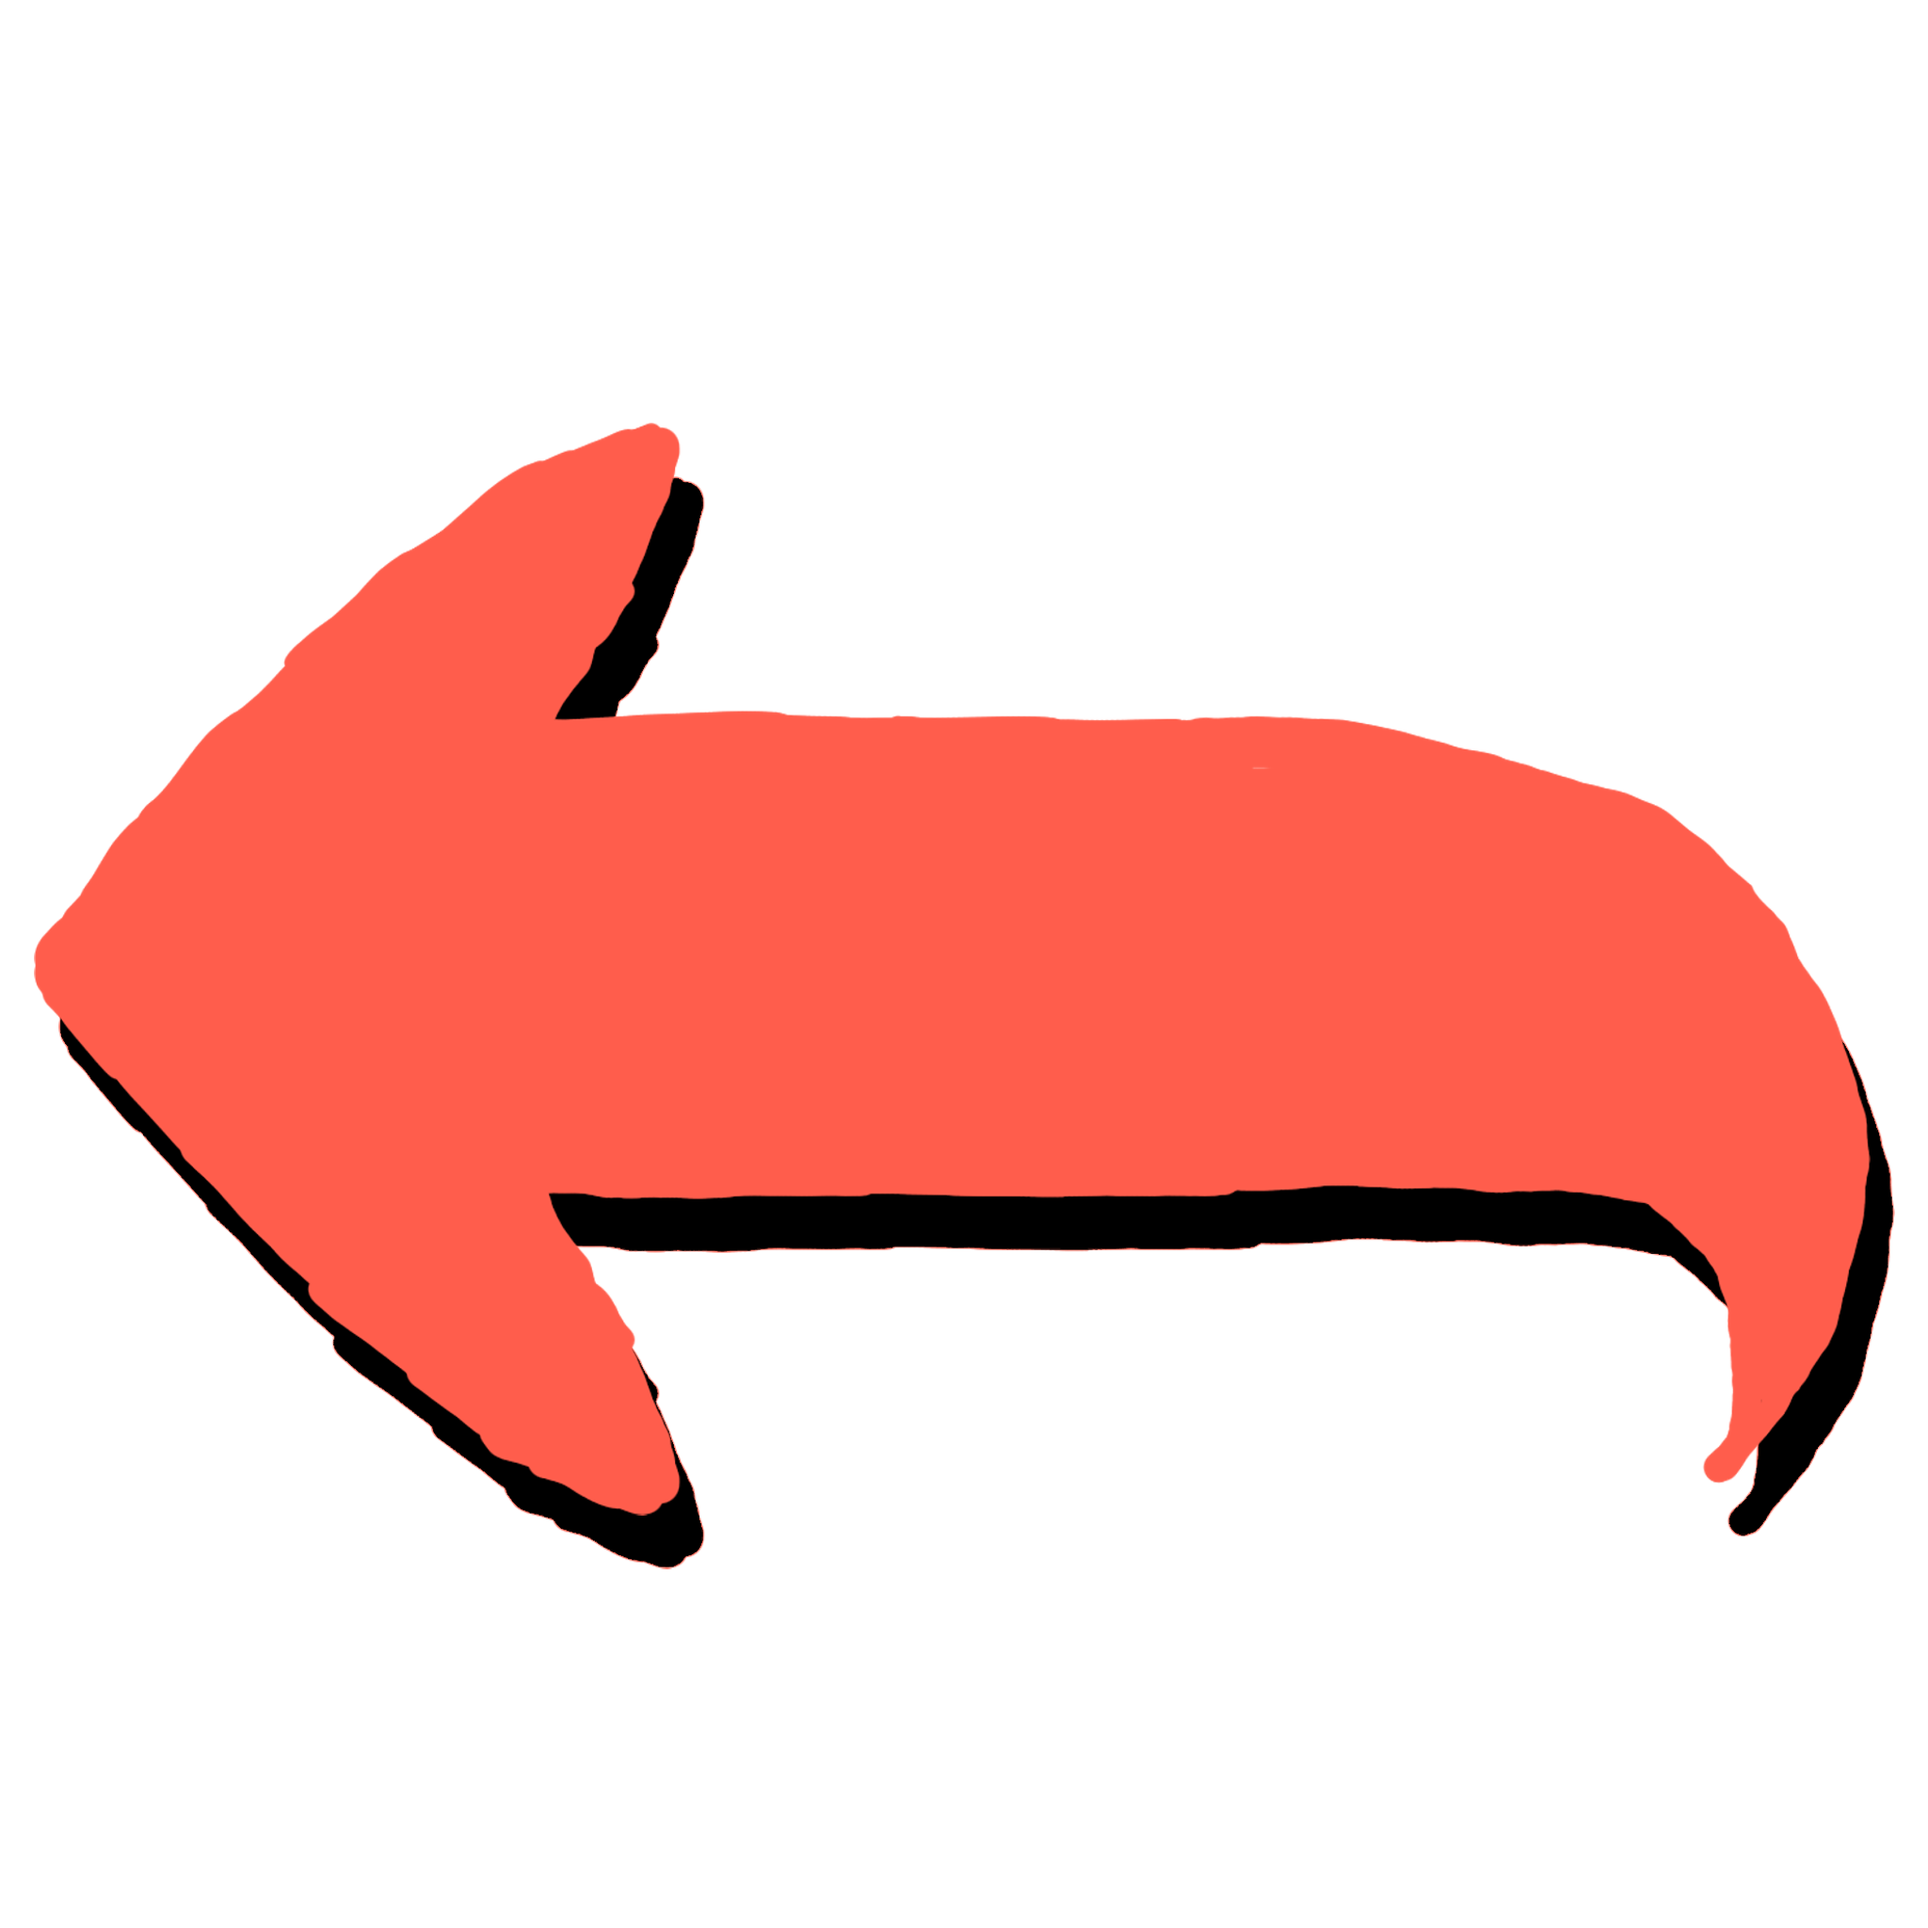
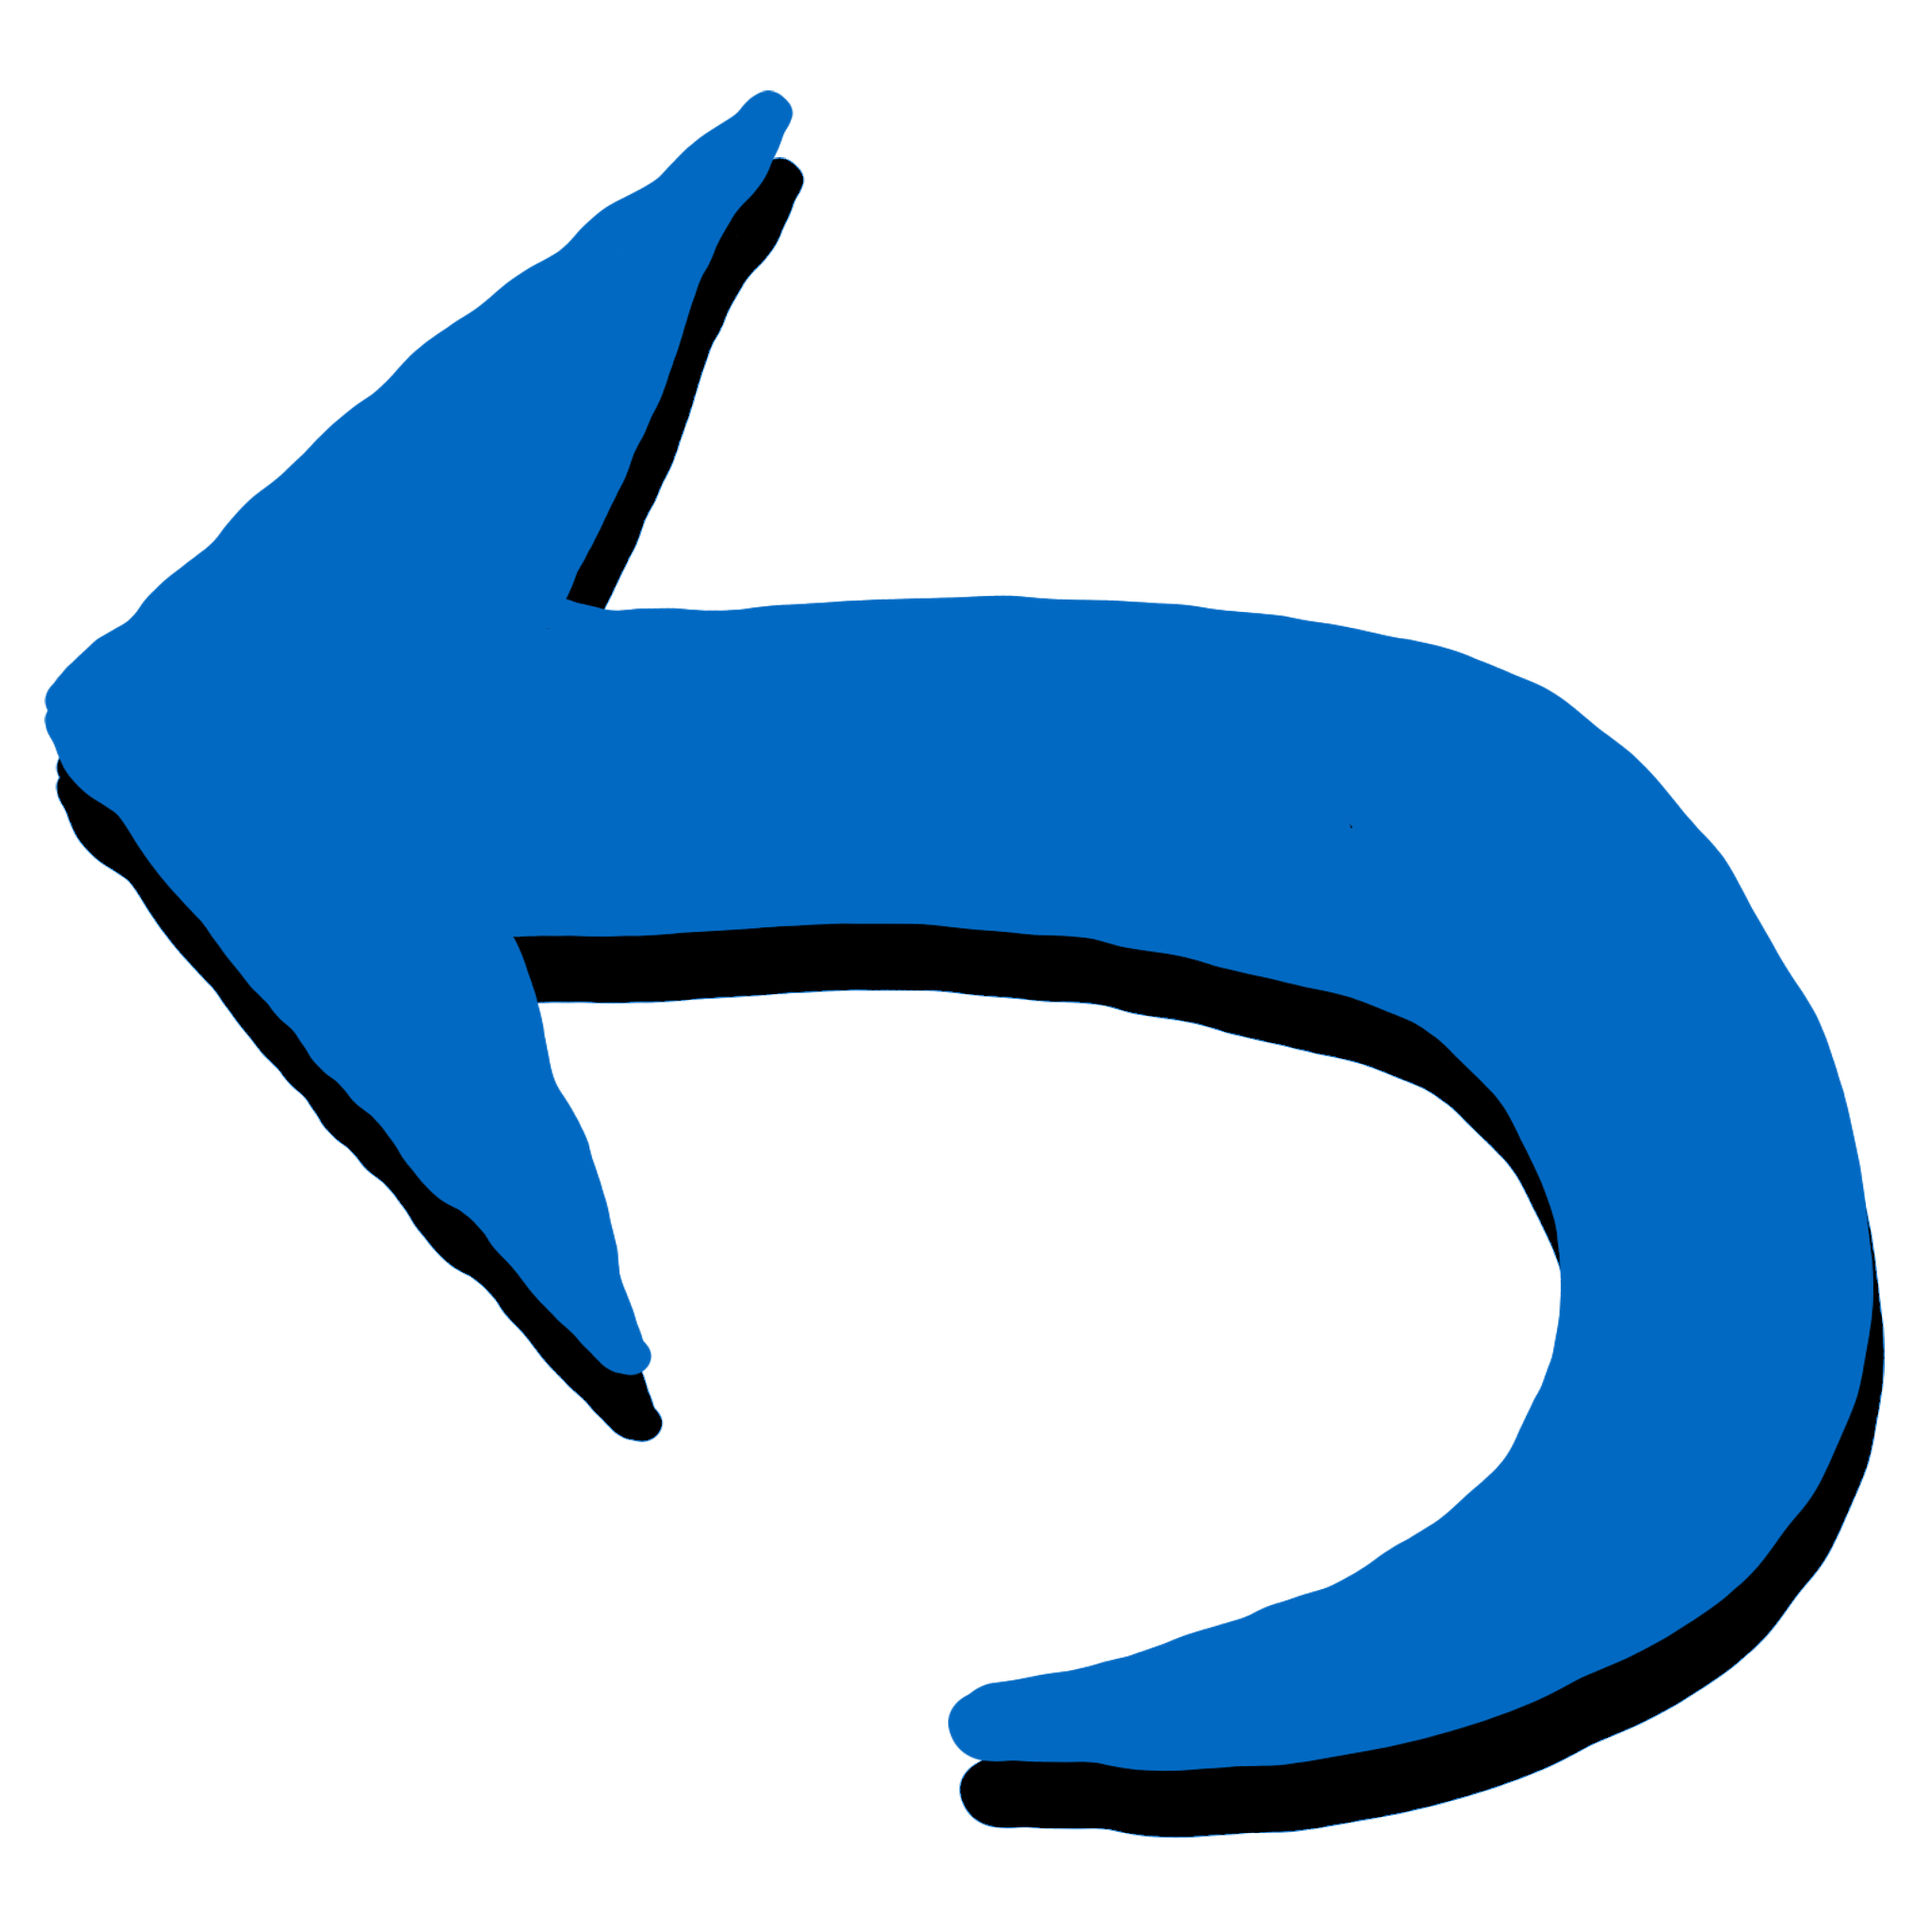
Refonte visuelle des icônes 'Annuler' et 'Rétablir' + améliorations graphique de leurs boutons.

diff --git a/Editeur/editeur.py b/Editeur/editeur.py
@@ -34,9 +34,9 @@ class Editeur:
         self.affG1 = False
         self.affG2 = False
         self.grille1 = GrilleBt()
-        self.grille1.ajouteElement(PtiBouton([self.annuler], [100, 100, 100, 255], "Annuler", 
+        self.grille1.ajouteElement(PtiBouton([self.annuler], [40, 78, 111, 255], "Annuler", 
                                              "images/ui/annuler.png"), 0, 0)
-        self.grille1.ajouteElement(PtiBouton([self.retablir], [100, 100, 100, 255], "Retablir", 
+        self.grille1.ajouteElement(PtiBouton([self.retablir], [40, 78, 111, 255], "Retablir", 
                                              "images/ui/retablir.png"), 1, 0)
         self.grille1.ajouteElement(PtiBouton([self.alea], [22, 127, 192, 255], "Plan Aleatoire", 
                                              "images/ui/hasard.png"), 0, 1)
